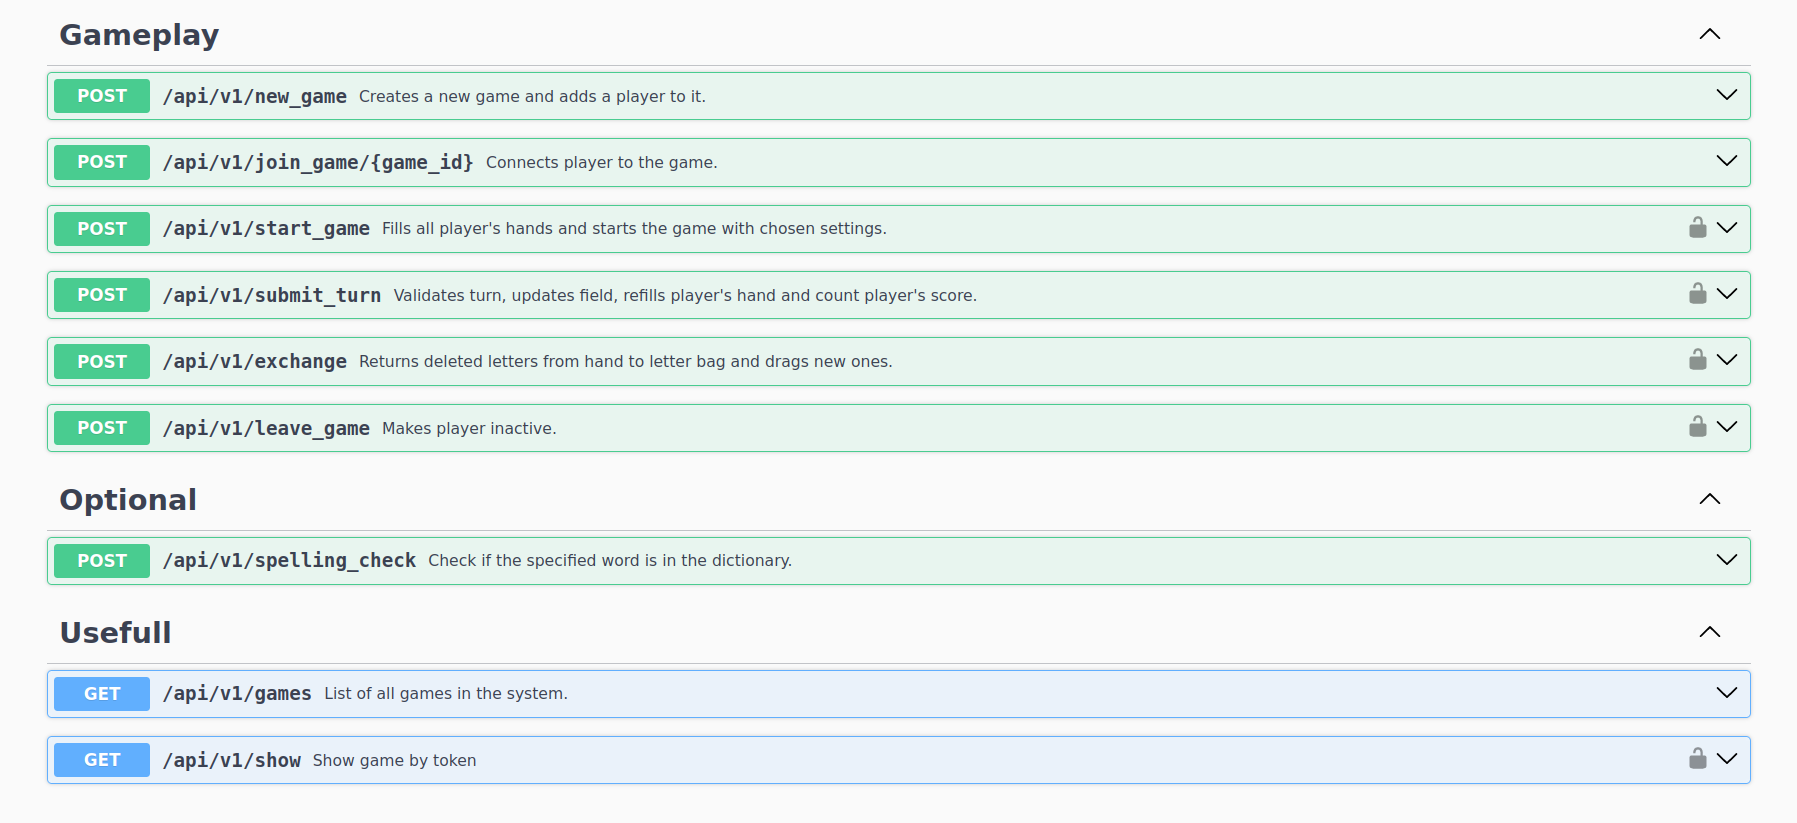
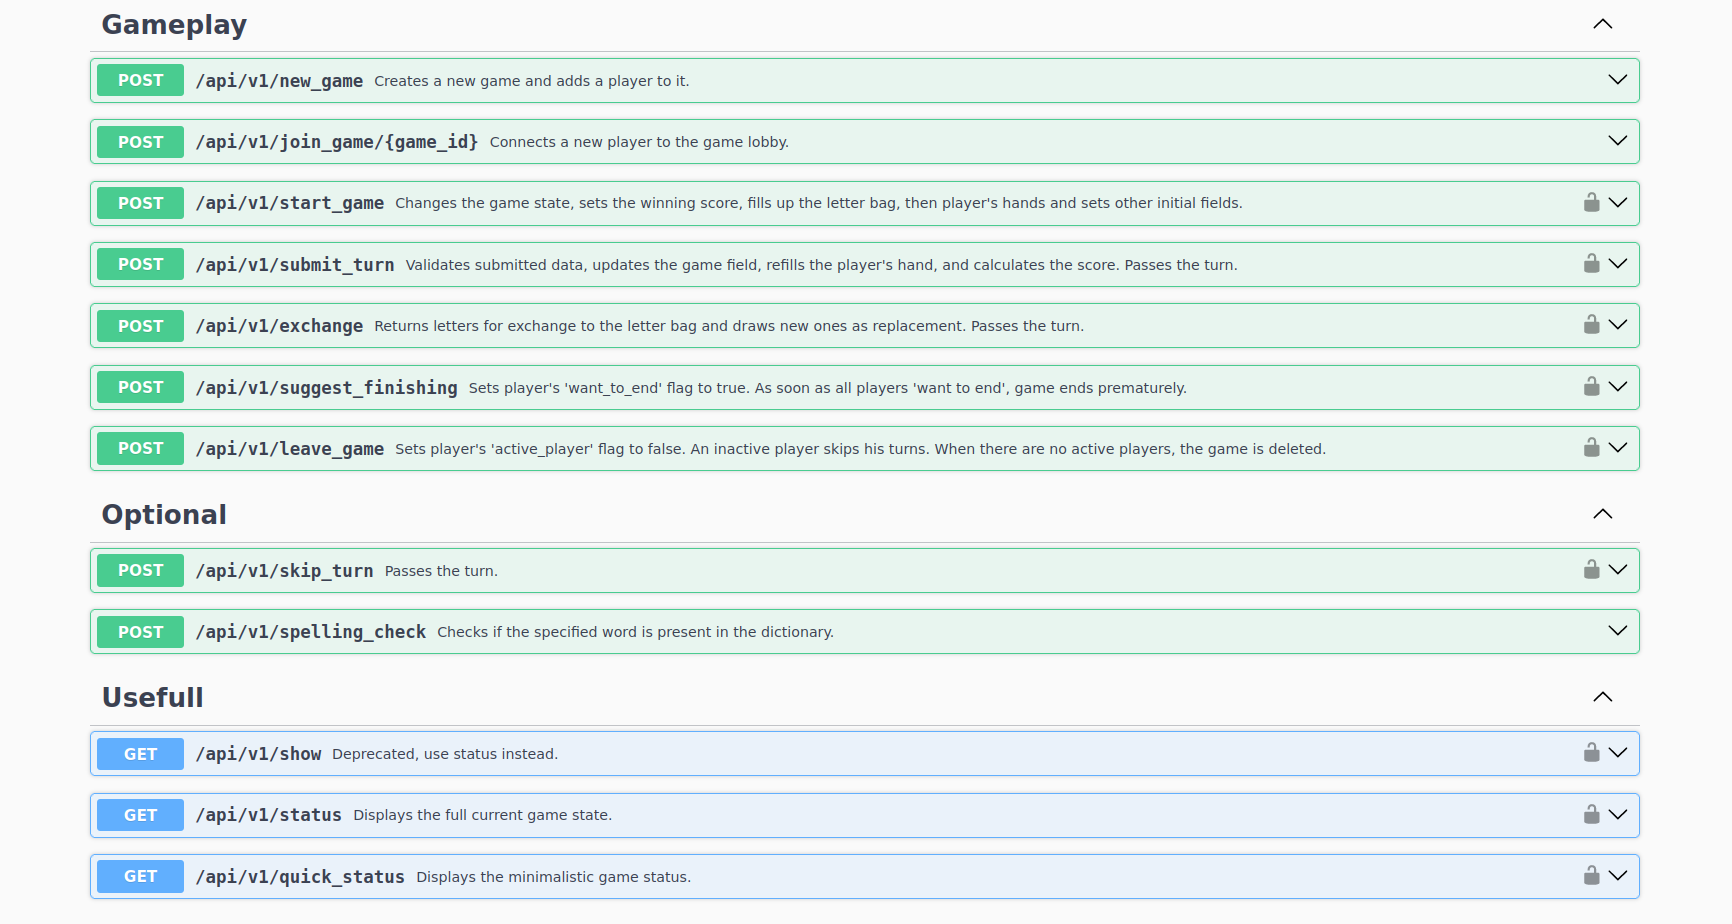
Documentation update

Changed region(s): [[0.0312, 0.0, 0.9665, 0.9721], [0.9042, 0.9417, 0.9353, 0.9721]]

diff --git a/spec/swagger_helper.rb b/spec/swagger_helper.rb
@@ -20,51 +20,52 @@ RSpec.configure do |config|
         title: 'API',
         version: '1'
       },
-      # basePath: '/api/v1',
       components: {
         schemas: {
           Game: {
             type: 'object',
             properties: {
-              id: { type: :integer, example: 982478387 },
-              current_turn: { type: :integer, example: 0 },
-              players_turn: { type: :integer, example: 1 },
-              game_state: { type: :string, example: "in_lobby" },
+              id: { type: :integer, example: 982478387, description: "Used for joinin the game." },
+              current_turn: { type: :integer, example: 0, description: "The current move in the order." },
+              players_turn: { type: :integer, example: 1, description: "An ordinal ID of the player in the array of players. (This is different than player's id field)." },
+              game_state: { type: :string, example: "in_lobby", description: "One of the three main game states: in_lobby, players_turn, game_ended." },
               winning_score: { anyOf: [
                 { type: :integer, example: 250 },
                 { type: :null },
-              ] },
-              winners: { type: :array, items: { type: :integer }},
-              field: { type: :array, items: { type: :string }},
+              ], description: "Score that is nessesary to get to win the game." },
+              winners: { type: :array, items: { type: :integer }, description: "Array of player's ordinal IDs who have met winning criteria." },
+              field: { type: :array, items: { type: :string }, description: "This is the game field where letters are supposed to go, consisting of 225 initially blank tiles." },
               letter_bag: { anyOf: [
-                { type: :array, items: { type: :string }},
+                { type: :array, items: { type: :string } },
                 { type: :null },
-              ] },
+              ], description: "Array of letters from which players draw their hands." },
               language: { anyOf: [
                 { type: :string},
                 { type: :null },
-              ] },
+              ], description: "Language of letters that players use to play." },
               hand_size: { anyOf: [
                 { type: :integer },
                 { type: :null },
-              ] },
+              ], description: "The number of letters each player draw." },
               players: {
                 type: :array,
-                items: { '$ref': '#/components/schemas/Player' }
+                items: { '$ref': '#/components/schemas/Player' },
+                description: "The array of players",
               }
             }
           },
           Player: {
             type: 'object',
             properties: {
-              id: { type: :integer, example: 12 },
-              nickname: { type: :string, example: 'Biba' },
-              score: { type: :integer, example: 0 },
-              active_player: { type: :boolean, example: true },
-              want_to_end: { type: :boolean, example: false },
+              id: { type: :integer, example: 12, description: "Unique player id. Don't have much use for now." },
+              nickname: { type: :string, example: 'Biba', description: "No uniqueness is required." },
+              score: { type: :integer, example: 0, description: "The personal score of the player." },
+              active_player: { type: :boolean, example: true, description: "The flag that signifies whether the player is in game or has left it." },
+              want_to_end: { type: :boolean, example: false, description: "The flag that signifies if the player wants to finish the game." },
               hand: { 
                 type: :array, 
-                items: { type: :string, example: ''}
+                items: { type: :string, example: ''},
+                description: "Letters that player are 'holding'.", 
               }
             }
           }
@@ -82,7 +83,7 @@ RSpec.configure do |config|
       paths: {},
       servers: [
         {
-          url: 'http://localhost:8081',
+          url: 'https://scrabbles.xyz',
           # variables: {
           #   defaultHost: {
           #     default: 'www.example.com'

diff --git a/spec/requests/api/v1/games_spec.rb b/spec/requests/api/v1/games_spec.rb
@@ -41,7 +41,7 @@ RSpec.describe 'api/v1/games', type: :request do
 
   path '/api/v1/join_game/{game_id}' do
     parameter name: 'game_id', in: :path, type: :string, description: 'Game id'
-    post('Connects player to the game.') do
+    post('Connects a new player to the game lobby.') do
       tags 'Gameplay'
       consumes 'application/json'
       produces 'application/json'
@@ -68,7 +68,8 @@ RSpec.describe 'api/v1/games', type: :request do
   end
 
   path '/api/v1/start_game' do
-    post('Fills all player\'s hands and starts the game with chosen settings.') do
+    post("Changes the game state, sets the winning score, fills up the letter bag, 
+    then player's hands and sets other initial fields.") do
       tags 'Gameplay'
       consumes 'application/json'
       produces 'application/json'
@@ -99,7 +100,8 @@ RSpec.describe 'api/v1/games', type: :request do
   end
 
   path '/api/v1/submit_turn' do
-    post("Validates turn, updates field, refills player's hand and count player's score.") do
+    post("Validates submitted  data, updates the game field, refills the player's hand, 
+    and calculates the score. Passes the turn.") do
       tags 'Gameplay'
       consumes 'application/json'
       produces 'application/json'
@@ -126,7 +128,8 @@ RSpec.describe 'api/v1/games', type: :request do
   end
 
   path '/api/v1/exchange' do
-    post('Returns deleted letters from hand to letter bag and drags new ones.') do
+    post("Returns letters for exchange to the letter bag and draws new ones as replacement. 
+    Passes the turn.") do
       tags 'Gameplay'
       consumes 'application/json'
       produces 'application/json'
@@ -169,8 +172,7 @@ RSpec.describe 'api/v1/games', type: :request do
   end
 
   path '/api/v1/leave_game' do
-    post("Sets player's 'active_player' flag to false.
-    An inactive player is considered to have left the game and skips his turns. 
+    post("Sets player's 'active_player' flag to false. An inactive player skips his turns. 
     When there are no active players, the game is deleted.") do
       tags 'Gameplay'
       produces 'application/json'
@@ -187,7 +189,7 @@ RSpec.describe 'api/v1/games', type: :request do
   end
 
   path '/api/v1/skip_turn' do
-    post('Allows player to skip his turn.') do
+    post('Passes the turn.') do
       tags 'Optional'
       produces 'application/json'
       security [ JWT: {} ]
@@ -203,7 +205,7 @@ RSpec.describe 'api/v1/games', type: :request do
   end
 
   path '/api/v1/spelling_check' do
-    post('Check if the specified word is in the dictionary.') do
+    post('Checks if the specified word is present in the dictionary.') do
       tags 'Optional'
       consumes 'application/json'
       produces 'application/json'
@@ -226,7 +228,7 @@ RSpec.describe 'api/v1/games', type: :request do
   end
 
   path '/api/v1/show' do
-    get('Show game by token. Deprecated, use status instead.') do
+    get('Deprecated, use status instead.') do
       tags 'Usefull'
       produces 'application/json'
       security [ JWT: {} ]
@@ -242,7 +244,7 @@ RSpec.describe 'api/v1/games', type: :request do
   end
 
   path '/api/v1/status' do
-    get('Show full current game state by token.') do
+    get('Displays the full current game state.') do
       tags 'Usefull'
       produces 'application/json'
       security [ JWT: {} ]
@@ -258,7 +260,7 @@ RSpec.describe 'api/v1/games', type: :request do
   end
 
   path '/api/v1/quick_status' do
-    get('Show minimalistic game status by token.') do
+    get('Displays the minimalistic game status.') do
       tags 'Usefull'
       produces 'application/json'
       security [ JWT: {} ]

diff --git a/README.md b/README.md
@@ -33,7 +33,7 @@ The project was launched to provide a better alternative in terms of vocabulary 
 Currently, the project has completed the active development stage, the core game mechanics are established, and it is in the process of refining the existing game mode. Also, there are plans to introduce new game modes and English language support in the future.
 
 #### Working app in production
-[The working application with front-end](http://localhost:8080/new_game) (comming soon).  
+[The working application with front-end](https://scrabbles.xyz).  
 The front-end was provided by [aka_dude](https://codeberg.org/aka_dude) and can be found [here](https://codeberg.org/aka_dude/scramble-frontend).  
 
 #### Used technologies
@@ -47,7 +47,7 @@ Scrabble is a word game where players use letter tiles to create words on a 15-b
 Here are the full rules upon which the app was created: [rules in English](/files/scrabble_rules.pdf),  [rules in Russian](/files/правила_эрудит.pdf).
 
 ## API Documentation
-Comming soon. For now you can see it if you run application locally. It will be by this url http://localhost:8081/api/docs/index.html
+[Check here](https://scrabbles.xyz/api/docs/index.html)
 
 ## Aplication overview
 Here I would like to share some important details about the application architecture. This section will be useful for frontend developers or anyone seeking a better understanding of the project.
